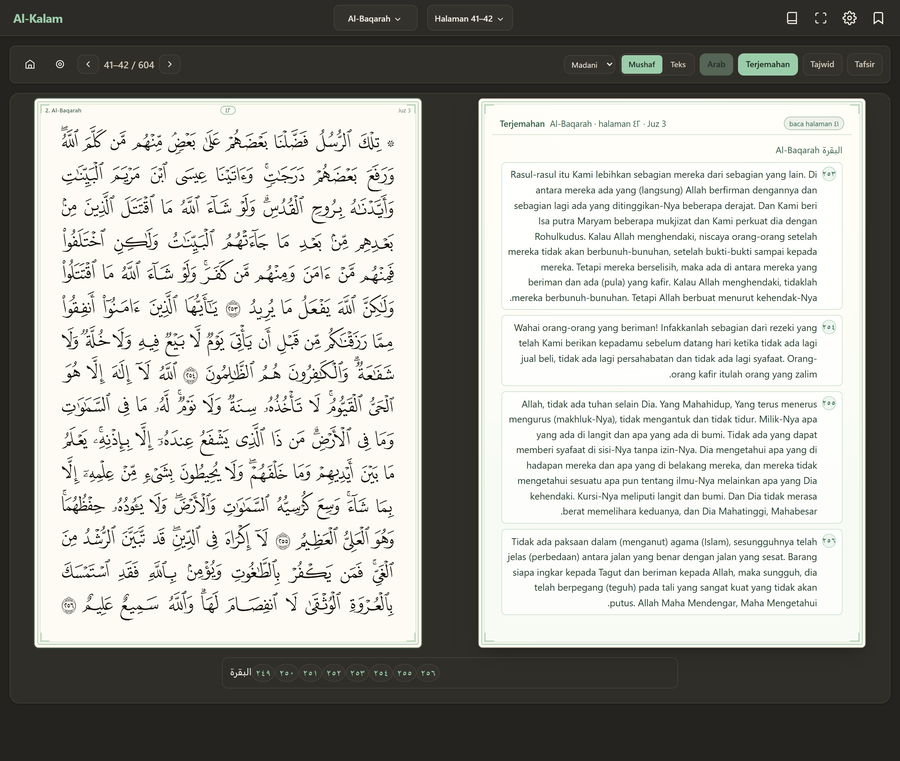
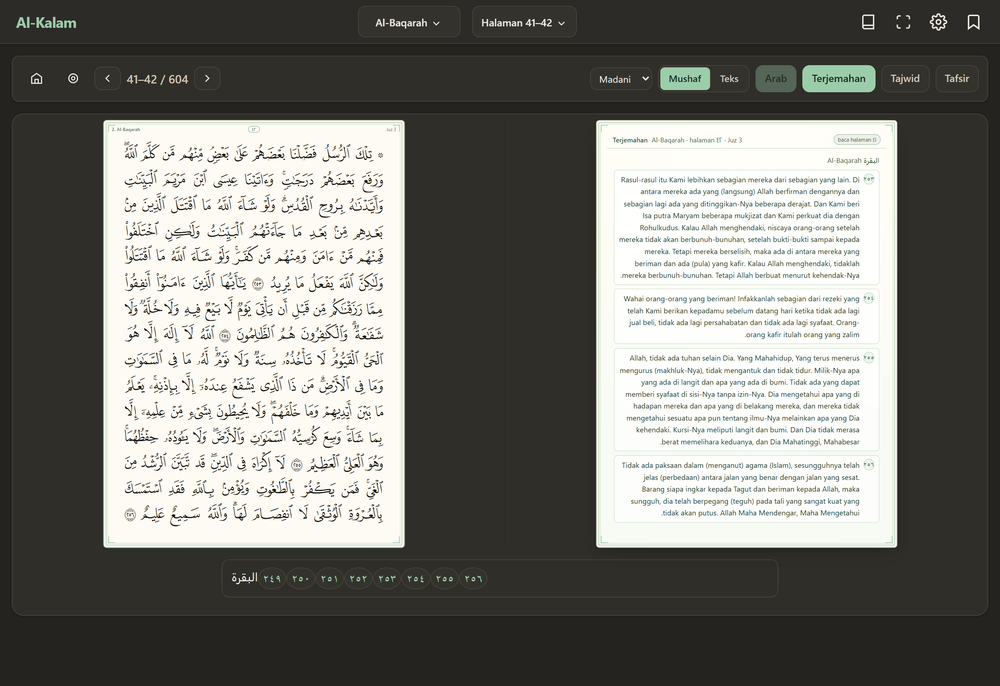
Terjemahan: sisi mengikuti halaman yang dituju + ukuran pas mengisi halaman
Masalah 1 (terjemahan selalu kiri): renderPage selalu menimpa halaman yang
dituju dengan halaman ganjil (page = pair[0]) sehingga halaman kiri tidak pernah
dianggap "sedang dibaca". Kini:
- renderPage mencatat halaman yang DITUJU (navigasi, ?page=, halaman terakhir)
  sebagai state.activePage
- render ulang halaman yang sama (mis. setelah data siap) tidak lagi mereset
  pilihan itu
- jadi membuka ?page=42 -> mushaf 42 di kiri, terjemahan otomatis di kanan;
  tombol "baca halaman N" tetap bisa menukar sisi

Masalah 2 (ukuran baru pas setelah off/on): fitTransSheet memakai
body.scrollHeight, padahal scrollHeight tidak pernah lebih kecil dari
clientHeight -> ruang kosong tak terdeteksi dan skala mentok di batas bawah.
Kini:
- transContentHeight() menjumlah tinggi tiap baris + gap + padding (ukuran isi
  sebenarnya)
- pencarian skala: binary search skala terbesar yang masih muat, lalu dirapatkan
  naik sampai pas mengisi halaman
- fit dijalankan berulang (rAF, 60/220/600 ms, fonts.ready) agar tata letak
  sempat stabil
- CSS: anak .trans-body tidak lagi melar (flex: 0 0 auto)

Hasil uji 1366x768:
- ?page=41 -> mushaf kanan + terjemahan kiri, isi 100%, huruf 19,2 px
- ?page=42 -> mushaf kiri (42) + terjemahan kanan, isi 98%, huruf 17,6 px
- klik tukar -> sisi berpindah, isi 98%
- aktifkan lalu langsung ukur (800 ms) -> sudah pas, tidak perlu off/on

diff --git a/js/app.js b/js/app.js
@@ -158,7 +158,7 @@
   }
   
   // ── Versi build (tanda bahwa browser memakai bundel terbaru) ────────
-  const BUILD = '2026-11-23-trans-swap';
+  const BUILD = '2026-11-23-trans-fit';
 
   function showBuildTag() {
     const el = document.getElementById('buildTag');
@@ -1505,7 +1505,7 @@
         const target = Number(btn.dataset.swap);
         if (Number.isFinite(target)) {
           state.activePage = target;
-          renderPage(state.currentPage);
+          renderPage(state.currentPage, true);
         }
       });
     });
@@ -1608,27 +1608,57 @@
    * mengisi sisa — tidak ada yang terpotong dan ujung baris tetap sama.
    */
   /** Sesuaikan ukuran huruf halaman terjemahan agar mengisi ruang yang ada. */
+  /** Tinggi isi sebenarnya (scrollHeight tidak bisa < clientHeight). */
+  function transContentHeight(body) {
+    const cs = getComputedStyle(body);
+    const gap = parseFloat(cs.rowGap) || 0;
+    const padT = parseFloat(cs.paddingTop) || 0;
+    const padB = parseFloat(cs.paddingBottom) || 0;
+    const kids = [...body.children];
+    if (!kids.length) return padT + padB;
+    return padT + padB + kids.reduce((a, k) => a + k.offsetHeight, 0) + gap * (kids.length - 1);
+  }
+
   function fitTransSheet(sheet) {
     const body = sheet.querySelector('.trans-body');
-    if (!body) return;
+    if (!body) return false;
     const avail = body.clientHeight;
-    if (!avail) return;
-    let lo = 0.95, hi = 2.6;   // 0.95 x ~13,7px ≈ 13px: batas nyaman dibaca
-    for (let i = 0; i < 10; i++) {
+    if (!avail) return false;
+
+    const setScale = (sc) => sheet.style.setProperty('--trans-scale', String(sc));
+    const fits = (sc) => { setScale(sc); return transContentHeight(body) <= avail - 2; };
+
+    // 1) skala terbesar yang masih muat (isi tidak meluber)
+    let lo = 0.95, hi = 2.8;
+    if (!fits(lo)) { setScale(lo); return true; }        // sudah penuh: biarkan bergulir
+    for (let i = 0; i < 14; i++) {
       const mid = (lo + hi) / 2;
-      sheet.style.setProperty('--trans-scale', String(mid));
-      if (body.scrollHeight > avail - 3) hi = mid; else lo = mid;
+      if (fits(mid)) lo = mid; else hi = mid;
     }
-    sheet.style.setProperty('--trans-scale', String(lo));
-    // masih longgar? naikkan bertahap, tetapi kembalikan bila mulai meluber
+    // 2) rapatkan ke atas agar isi mengisi halaman (tidak menyisakan ruang)
     let best = lo;
-    for (let i = 0; i < 8 && body.scrollHeight < avail * 0.95 && best < 2.6; i++) {
-      const next = Math.min(2.6, best + 0.05);
-      sheet.style.setProperty('--trans-scale', String(next));
-      if (body.scrollHeight > avail) break;
-      best = next;
+    for (let i = 0; i < 40; i++) {
+      const next = Math.min(2.8, best + 0.005);
+      setScale(next);
+      if (transContentHeight(body) <= avail - 2) best = next; else break;
     }
-    sheet.style.setProperty('--trans-scale', String(best));
+    setScale(best);
+    return true;
+  }
+
+  /** Jalankan fit beberapa kali sampai tata letak & font stabil. */
+  function scheduleTransFit(sheet) {
+    sheet._transFitFor = null;
+    const run = () => {
+      if (!sheet.isConnected) return;
+      fitTransSheet(sheet);
+    };
+    run();
+    requestAnimationFrame(run);
+    setTimeout(run, 60);
+    setTimeout(run, 220);
+    setTimeout(run, 600);
+    if (document.fonts && document.fonts.ready) document.fonts.ready.then(run).catch(() => {});
   }
 
   function applyPageScale(sheet) {
@@ -1645,7 +1675,7 @@
       const scaleT = Math.min(1, boxWT / DESIGN_WT, availHT / (sheet.offsetHeight || 1)) || 1;
       sheet.style.setProperty('--page-scale', String(scaleT));
       if (stageT) stageT.style.height = `${Math.round(sheet.offsetHeight * scaleT)}px`;
-      fitTransSheet(sheet);
+      scheduleTransFit(sheet);
       return;
     }
     const stage = sheet.parentElement;
@@ -1714,14 +1744,21 @@
     if (stage) stage.style.height = `${Math.round(sheet.offsetHeight * scale)}px`;
   }
 
-  async function renderPage(page) {
+  async function renderPage(page, keepActive) {
     const seq = ++state._renderSeq;
     const maxPage = pageCount();
     if (page < 1 || page > maxPage) return;
-    // mode dua halaman: selalu mulai dari halaman ganjil (kanan)
+    const requested = page;              // halaman yang dituju pengguna
+    const prevCurrent = state.currentPage;
     const pair = spreadPair(page);
     page = pair[0];
     state.currentPage = page;
+    // halaman yang dibaca = halaman yang dituju; render ulang halaman yang sama
+    // (mis. setelah data siap) tidak boleh mengubah pilihan pengguna
+    const navigated = requested !== prevCurrent;
+    if (!keepActive && (navigated || !pair.includes(state.activePage))) {
+      state.activePage = pair.includes(requested) ? requested : pair[0];
+    }
     els.pageIndicator.textContent = pair.length > 1
       ? `${pair[0]}–${pair[1]} / ${maxPage}`
       : `${page} / ${maxPage}`;

diff --git a/css/style.css b/css/style.css
@@ -1474,3 +1474,7 @@ body.is-fullscreen .app-main { margin-top: 0; }
 .trans-sheet .scan-num { background: #eef6ef; color: #2d6a4f; border-color: rgba(127, 176, 138, .55); }
 .trans-sheet .scan-surah-sep { color: #35624a; border-color: rgba(127, 176, 138, .45); }
 .trans-sheet .scan-text-row.playing { border-color: #2d6a4f; box-shadow: inset 3px 0 0 #2d6a4f; }
+
+/* isi halaman terjemahan tidak boleh melar mengisi tinggi */
+.trans-body > * { flex: 0 0 auto; }
+.trans-body { justify-content: flex-start; align-content: flex-start; }

diff --git a/sw.js b/sw.js
@@ -2,9 +2,9 @@
  * Al-Kalam Digital — Service Worker
  * Offline-first untuk halaman mushaf & data JSON
  */
-const CACHE_NAME = 'alkalam-v38';
+const CACHE_NAME = 'alkalam-v39';
 const DATA_CACHE = 'alkalam-data-v3';
-const PAGE_CACHE = 'alkalam-pages-v38';
+const PAGE_CACHE = 'alkalam-pages-v39';
 const IMG_CACHE = 'alkalam-page-images-v2';
 
 // File yang di-cache saat install (app shell)
